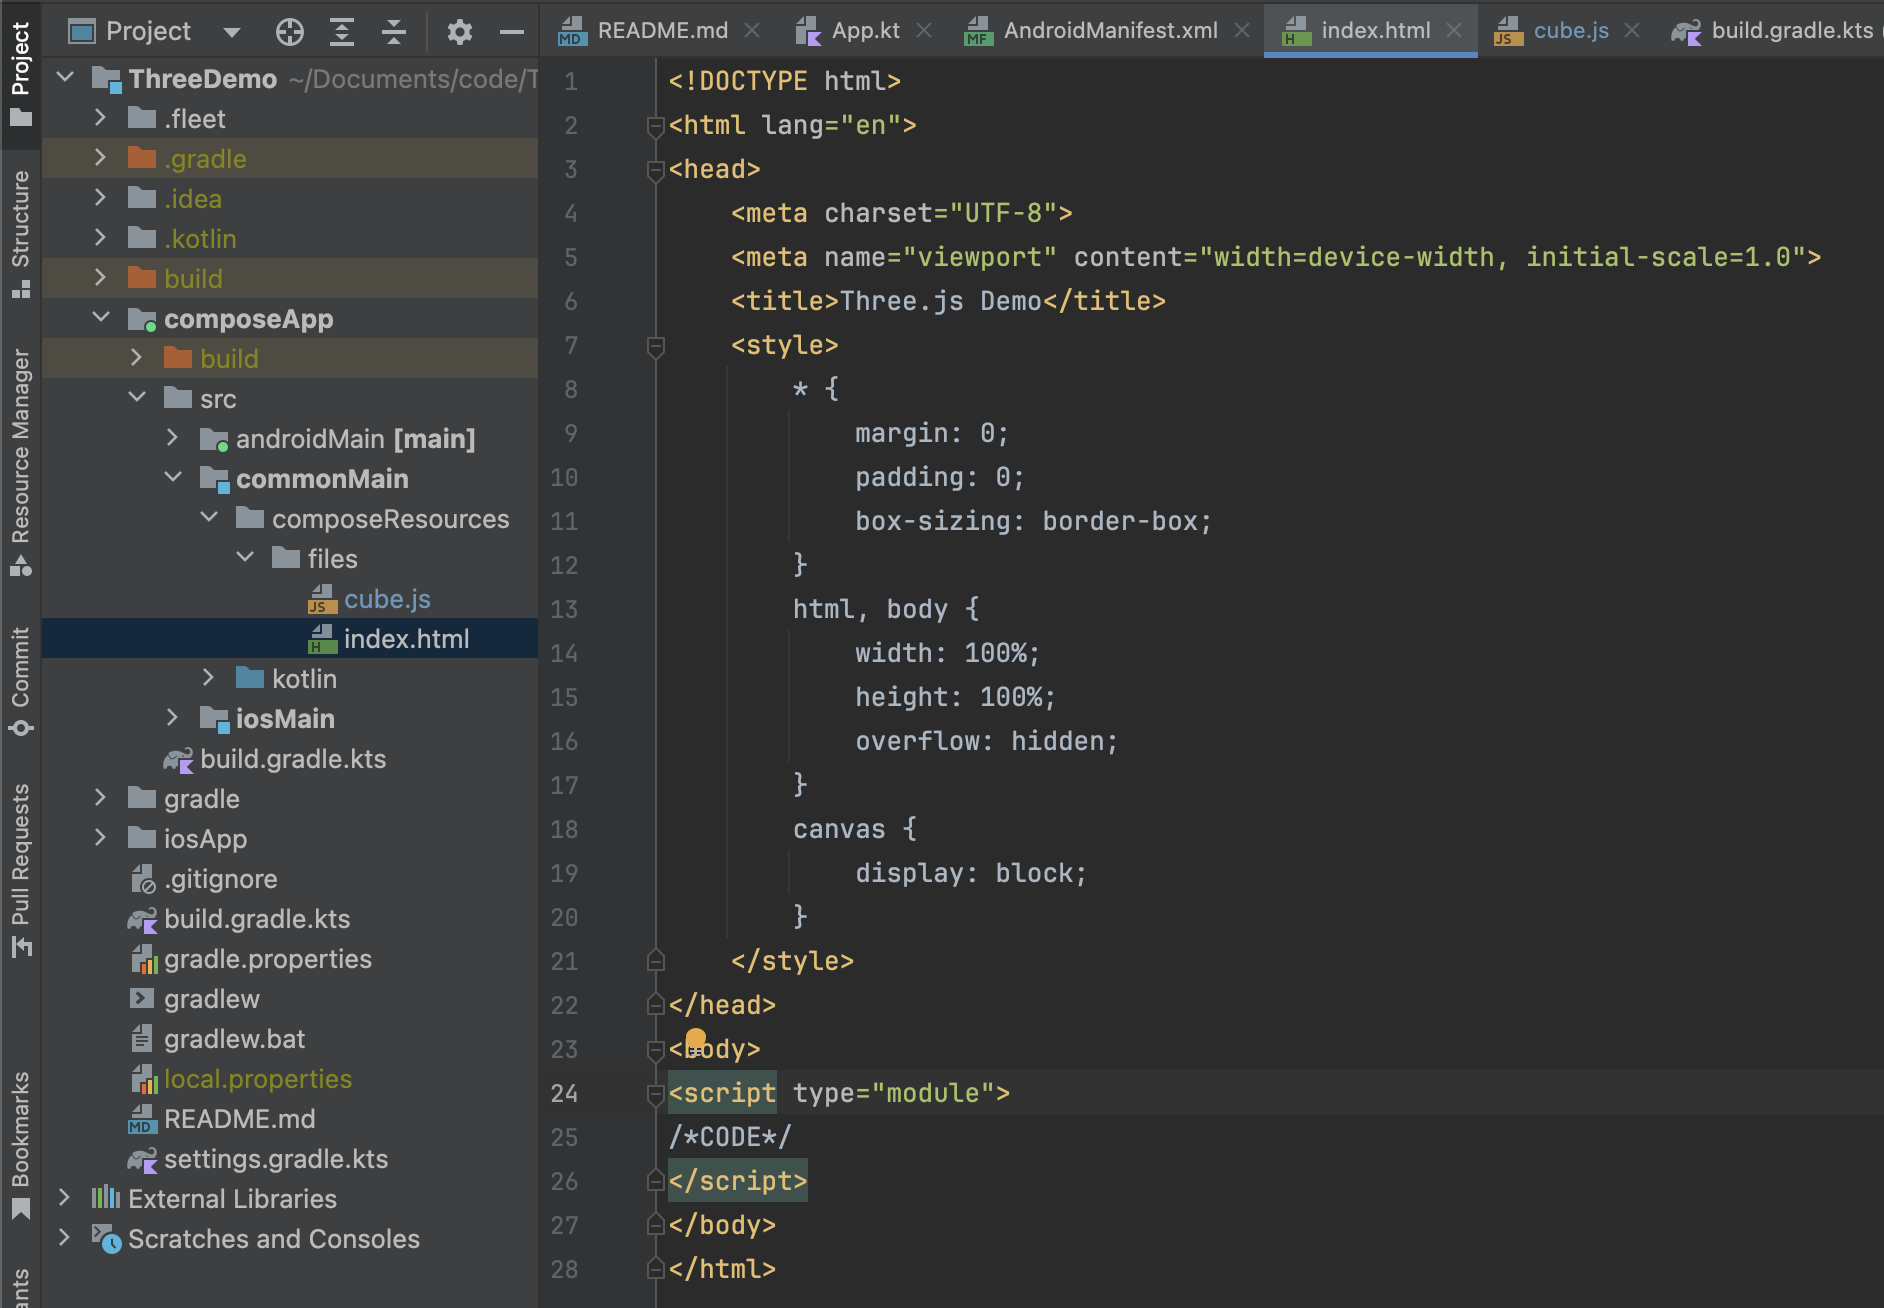
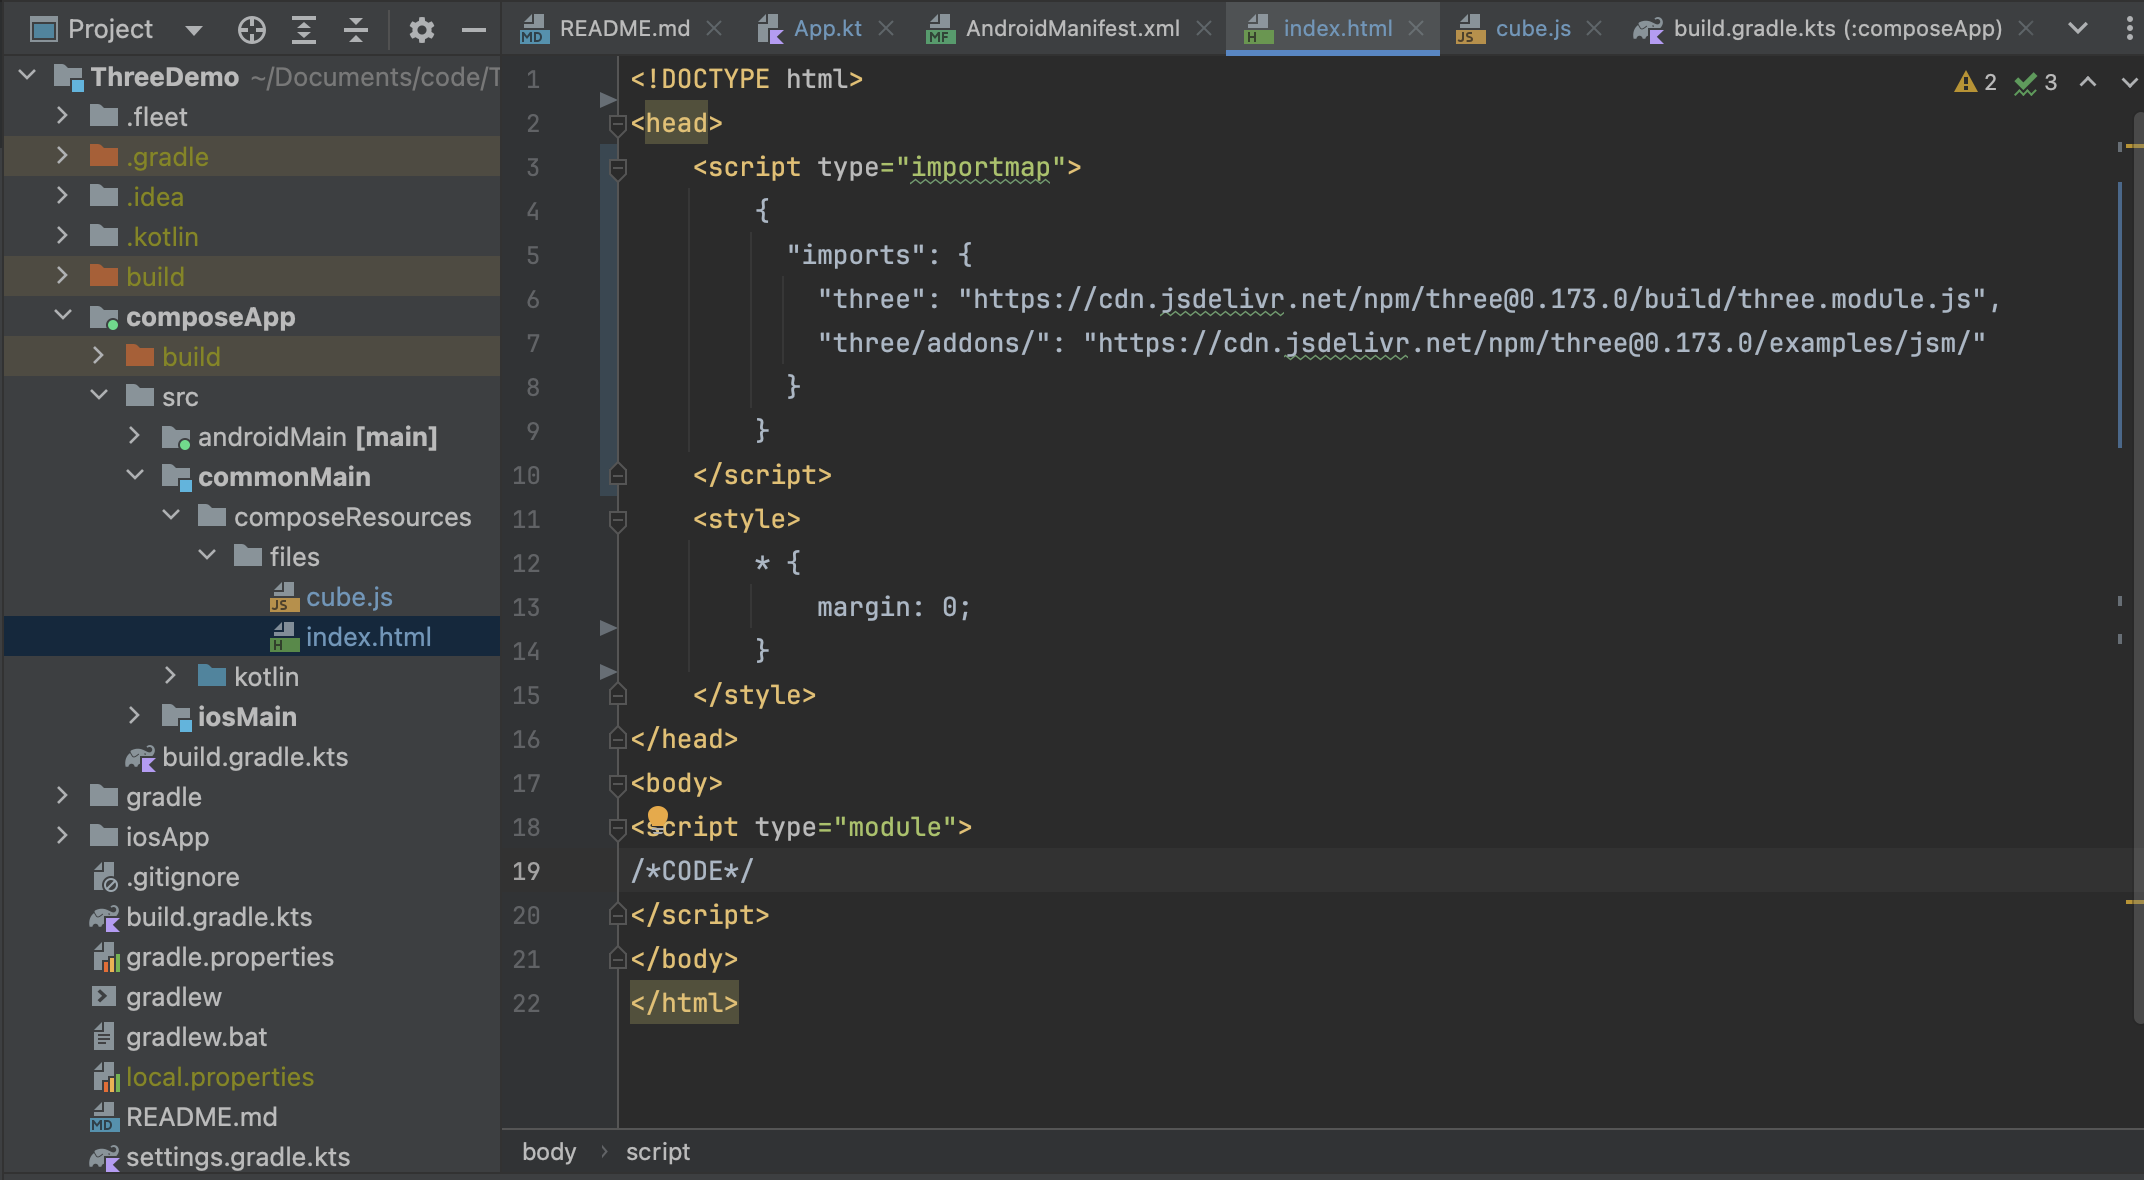
simplified the html and javascript and working with latest three.js version

diff --git a/ThreeDemo/composeApp/src/commonMain/composeResources/files/index.html b/ThreeDemo/composeApp/src/commonMain/composeResources/files/index.html
@@ -1,22 +1,16 @@
 <!DOCTYPE html>
-<html lang="en">
 <head>
-    <meta charset="UTF-8">
-    <meta name="viewport" content="width=device-width, initial-scale=1.0">
-    <title>Three.js Demo</title>
+    <script type="importmap">
+        {
+          "imports": {
+            "three": "https://cdn.jsdelivr.net/npm/three@0.173.0/build/three.module.js",
+            "three/addons/": "https://cdn.jsdelivr.net/npm/three@0.173.0/examples/jsm/"
+          }
+        }
+    </script>
     <style>
         * {
             margin: 0;
-            padding: 0;
-            box-sizing: border-box;
-        }
-        html, body {
-            width: 100%;
-            height: 100%;
-            overflow: hidden;
-        }
-        canvas {
-            display: block;
         }
     </style>
 </head>

diff --git a/ThreeDemo/composeApp/src/commonMain/kotlin/com/dcengineer/threedemo/App.kt b/ThreeDemo/composeApp/src/commonMain/kotlin/com/dcengineer/threedemo/App.kt
@@ -53,7 +53,7 @@ fun ThreeJsWebView(html: String) {
     Column {
         Text("Three.js in Compose Multiplatform!",
             modifier = Modifier.padding(12.dp),
-            style = MaterialTheme.typography.h5
+            style = MaterialTheme.typography.h4
         )
         WebView(
             state = webViewState,
@@ -70,7 +70,10 @@ fun ThreeJsWebView(html: String) {
             modifier = Modifier.padding(12.dp),
             valueRange = 0.1f..2f
         )
-        Text(quaternion, modifier = Modifier.padding(12.dp))
+        Text(quaternion,
+            modifier = Modifier.padding(12.dp),
+            style = MaterialTheme.typography.body2
+        )
     }
 }
 

diff --git a/ThreeDemo/composeApp/src/commonMain/composeResources/files/cube.js b/ThreeDemo/composeApp/src/commonMain/composeResources/files/cube.js
@@ -1,4 +1,4 @@
-import * as THREE from "https://cdn.jsdelivr.net/npm/three@0.173.0/build/three.module.js";
+import * as THREE from "three";
 
 const scene = new THREE.Scene();
 const camera = new THREE.PerspectiveCamera(75, window.innerWidth / window.innerHeight, 0.1, 1000);
@@ -10,6 +10,7 @@ const geometry = new THREE.BoxGeometry();
 const material = new THREE.MeshNormalMaterial();
 const cube = new THREE.Mesh(geometry, material);
 scene.add(cube);
+window.cube = cube;
 
 camera.position.z = 5;
 
